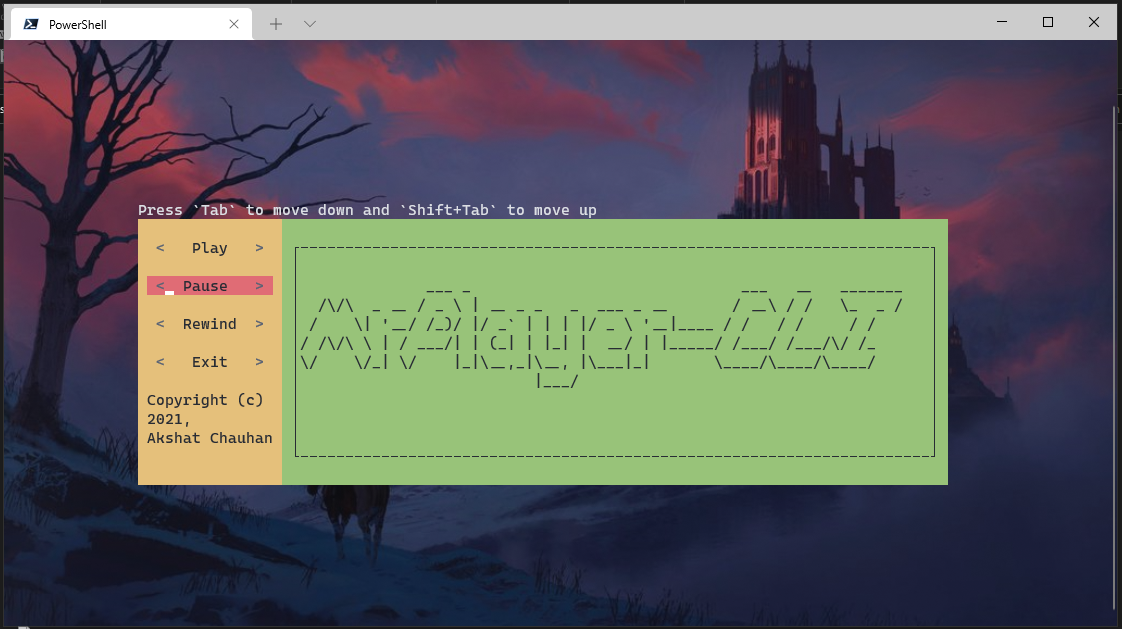
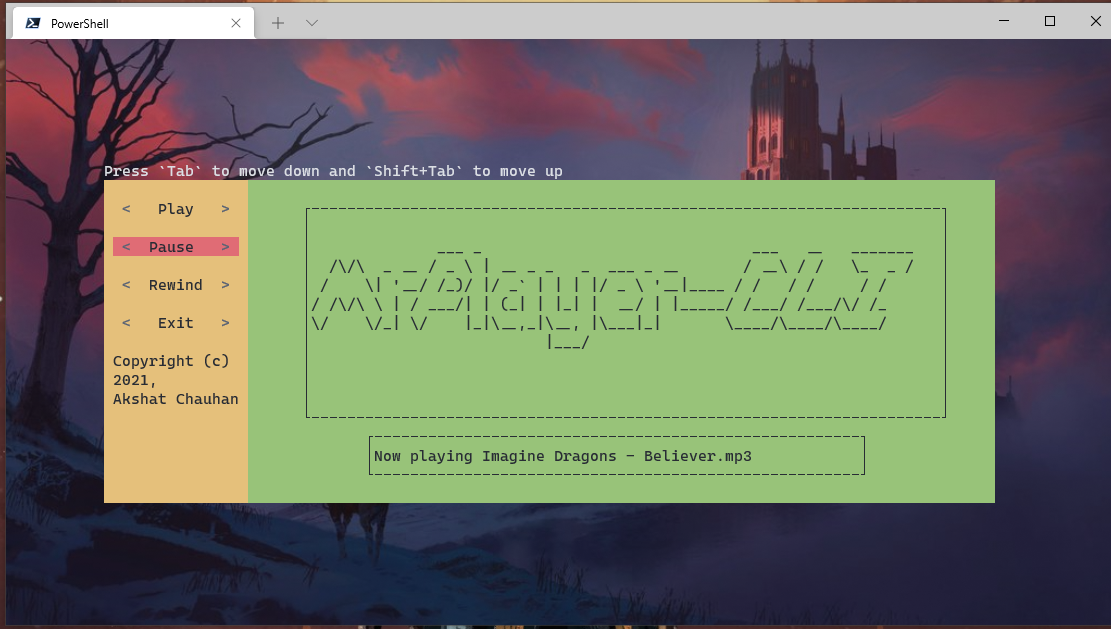
changed -m command

diff --git a/mpc.py b/mpc.py
@@ -55,7 +55,7 @@ def player(args):
         rewind_btn = Button("Rewind", handler=rewind)
         exit_btn = Button("Exit", handler=exit_clicked)
         text_area = TextArea(focusable=False, height=10, width=70)
-        timeLabel = Label(text=f'{pygame.mixer.music.get_pos()}')
+
         text_area.text = '''
               ___ _                              ___   __   _______
   /\/\  _ __ / _ \ | __ _ _   _  ___ _ __       / __\ / /   \_  _ /
@@ -65,7 +65,7 @@ def player(args):
                           |___/                                   
 '''
         copy_right_label = Label(text='Copyright (c)\n2021,\nAkshat Chauhan')
-
+        song_name = Label(text=f"Now playing {args.playsong}")
         # Combine all the widgets in a UI.
         # The `Box` object ensures that padding will be inserted around the containing
         # widget. It adapts automatically, unless an explicit `padding` amount is given.
@@ -81,7 +81,18 @@ def player(args):
                                 padding=1,
                                 style="class:left-pane",
                             ),
-                            Box(body=Frame(text_area), padding=1,
+                            Box(
+                                HSplit(
+                                    [
+                                        Box(
+                                            body=Frame(
+                                                text_area
+                                            )
+                                        ),
+                                        Box(
+                                            body=Frame(song_name)
+                                        )
+                            ]) , padding=1,
                                 style="class:right-pane"),
                         ]
                     )
@@ -132,7 +143,7 @@ def player(args):
         console.print('[green]v1.1.0')
     if args.sourcecode:
         console.rule('[bold red]Code')
-        code_file = Syntax.from_path(f"{os.path.expanduser('~')}.MrPlayer\\mpc.py",line_numbers=True) # this file will be created by installer
+        code_file = Syntax.from_path(f"{os.path.expanduser('~')}\\.MrPlayer\\mpc.py",line_numbers=True) # this file will be created by installer
         console.print(code_file)
 
     if args.addtrack:
@@ -180,6 +191,6 @@ if __name__ == '__main__':
     parse.add_argument('-sc', '--sourcecode', help='This command shows the source code.',action='store_true')
     parse.add_argument('-at ', '--addtrack', help='This command is used add sound track to MrPlayer folder.')
     parse.add_argument('-af', '--addfolder', help='This command is used to add all sound tracks of the specified folder to the MrPlayer folder')
-    parse.add_argument('-m', '--movetrack', help= 'This command is used with "-ast" & "-af" to move sound track  instead of copying sound track', action='store_true')
+    parse.add_argument('-m', '--movetrack', help= 'This command is used with "-at" & "-af" to move sound track  instead of copying sound track', action='store_true')
     args = parse.parse_args()
     player(args)
